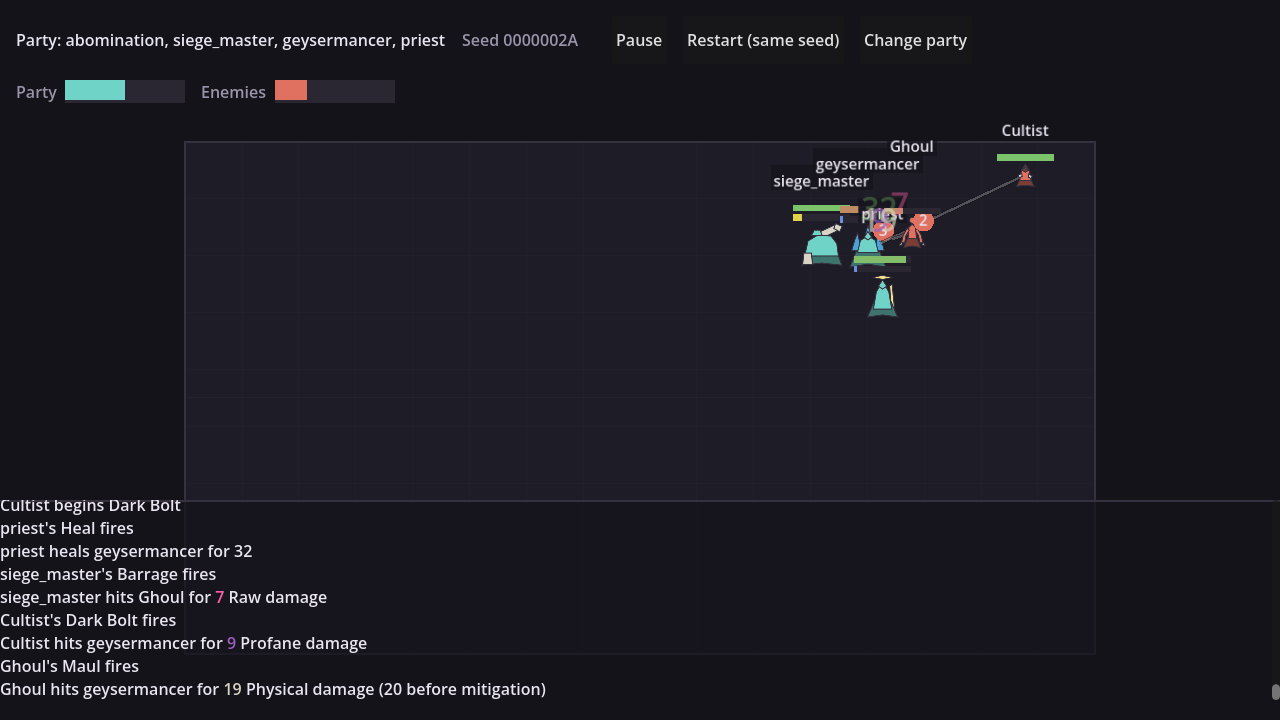
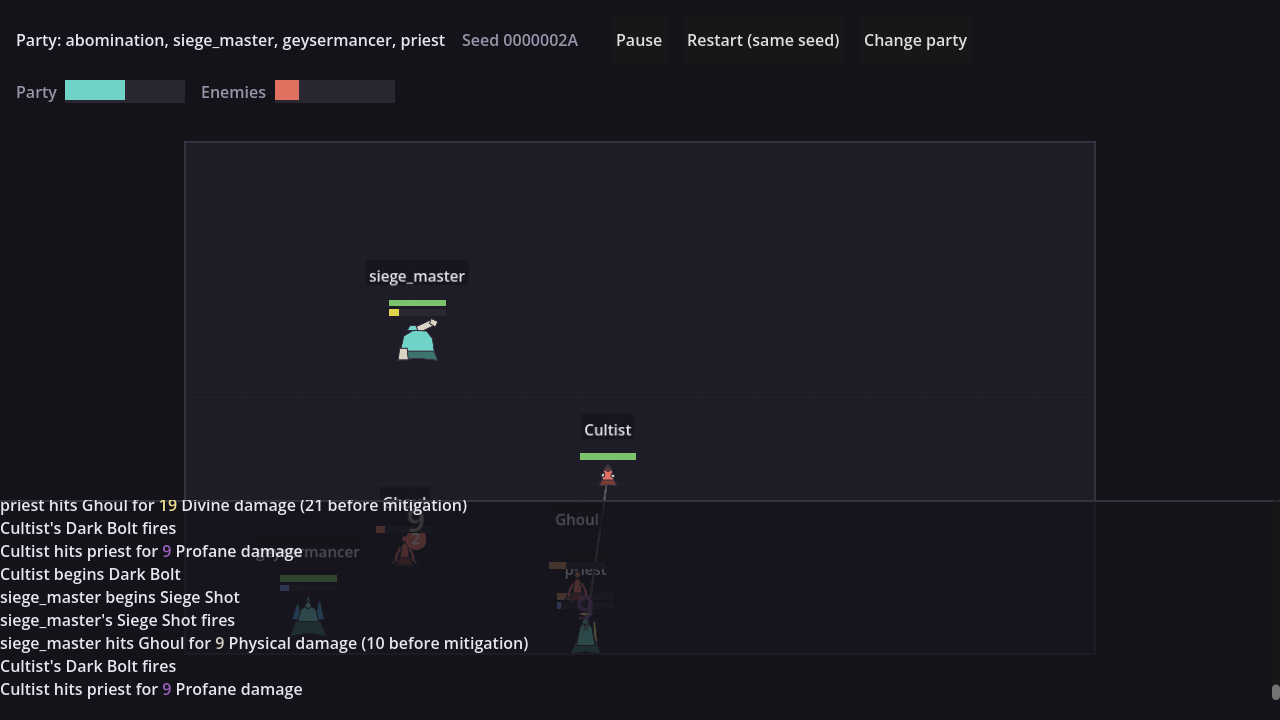
The combat log is now hiding units, not crowding an edge
Looked at the current trunk while waiting on the team. fight_05.png has the
geysermancer, the priest and a Ghoul fighting in the arena's lower third, drawn
behind the combat log's text — three of seven units invisible in that frame.

I let this through at the issue 15 merge and justified it in the merge message
with "units mostly fight in the middle, so it rarely hides anything". That
stopped being true the moment teal spread the spawns and gave enemies real
placement: the fight now uses the whole arena, which is exactly what we asked
for. The justification expired and nothing was watching for that.

Promoted in pike's queue from an open item to probably the first item.

Also refreshed the previews. The default mixed party now wins in 23 seconds where
it lost this morning, and the fight reads properly — units spread across the
arena, targeting lines visible, and the log naming actions as "Dark Bolt" and
"Siege Shot" rather than dark_bolt and siege_shot.

Agent: rook (manager)

diff --git a/Issues/issue-26-pike-queue.md b/Issues/issue-26-pike-queue.md
@@ -23,10 +23,17 @@ blocking movement and not sight, the other the reverse.
 
 ## 2. The combat log still overlays the arena
 
-Open since the issue 15 merge, where I let it through and said so. The log draws
-over the arena's lower third, which makes the boundary ambiguous and means a unit
-standing there is behind text. Units mostly fight in the middle, which is why it
-has survived this long.
+Open since the issue 15 merge, where I let it through and said so. **Promoting it:
+this is no longer cosmetic, and item 2 should probably be item 1.**
+
+`Tools/preview/fight_05.png` on the current trunk: the geysermancer, the priest
+and a Ghoul are all fighting in the arena's bottom third, drawn *behind* the
+combat log's text. You cannot see three of the seven units in that frame. The
+"units mostly fight in the middle" argument I used to justify letting it through
+stopped being true the moment teal spread the spawns out and gave enemies real
+placement — the fight now uses the whole arena, which is what we wanted.
+
+So the log is now hiding gameplay rather than crowding an edge.
 
 ## 3. Labels collide in a crowded fight
 
